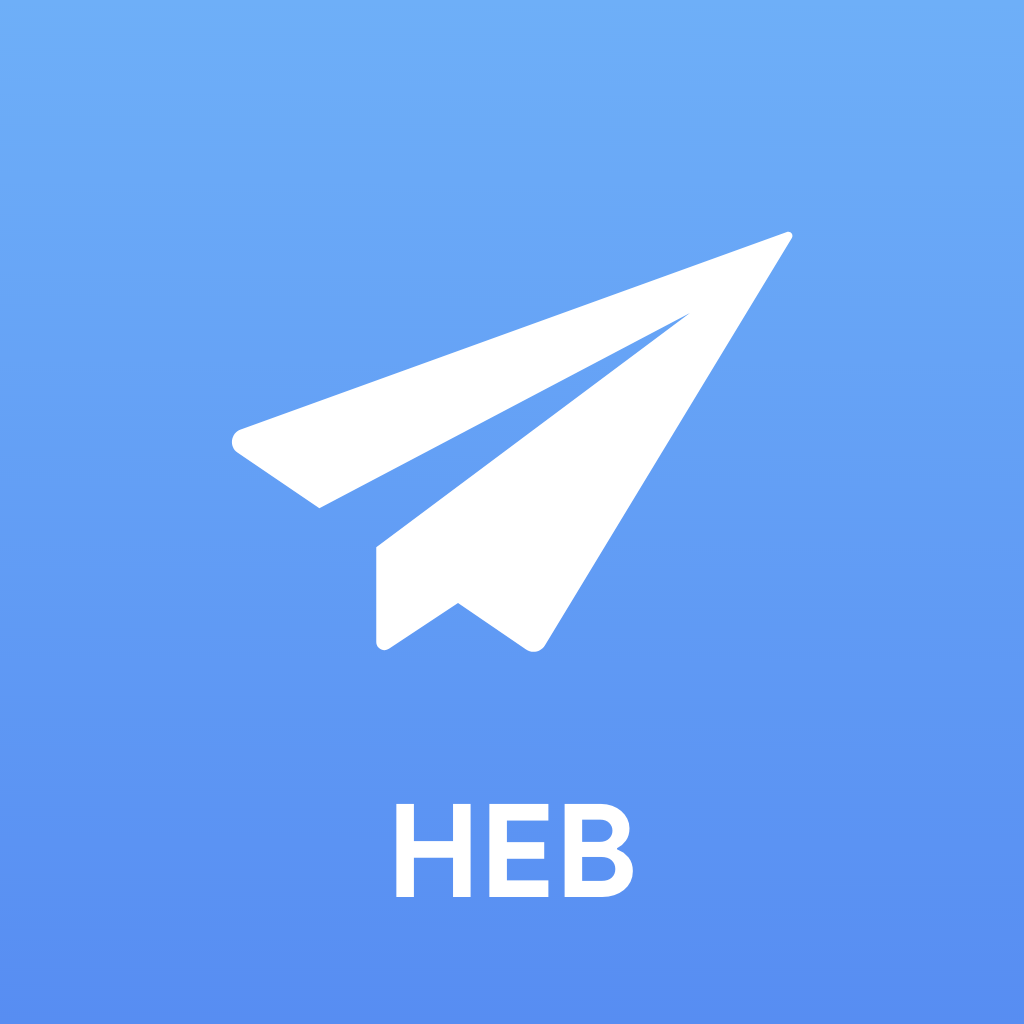
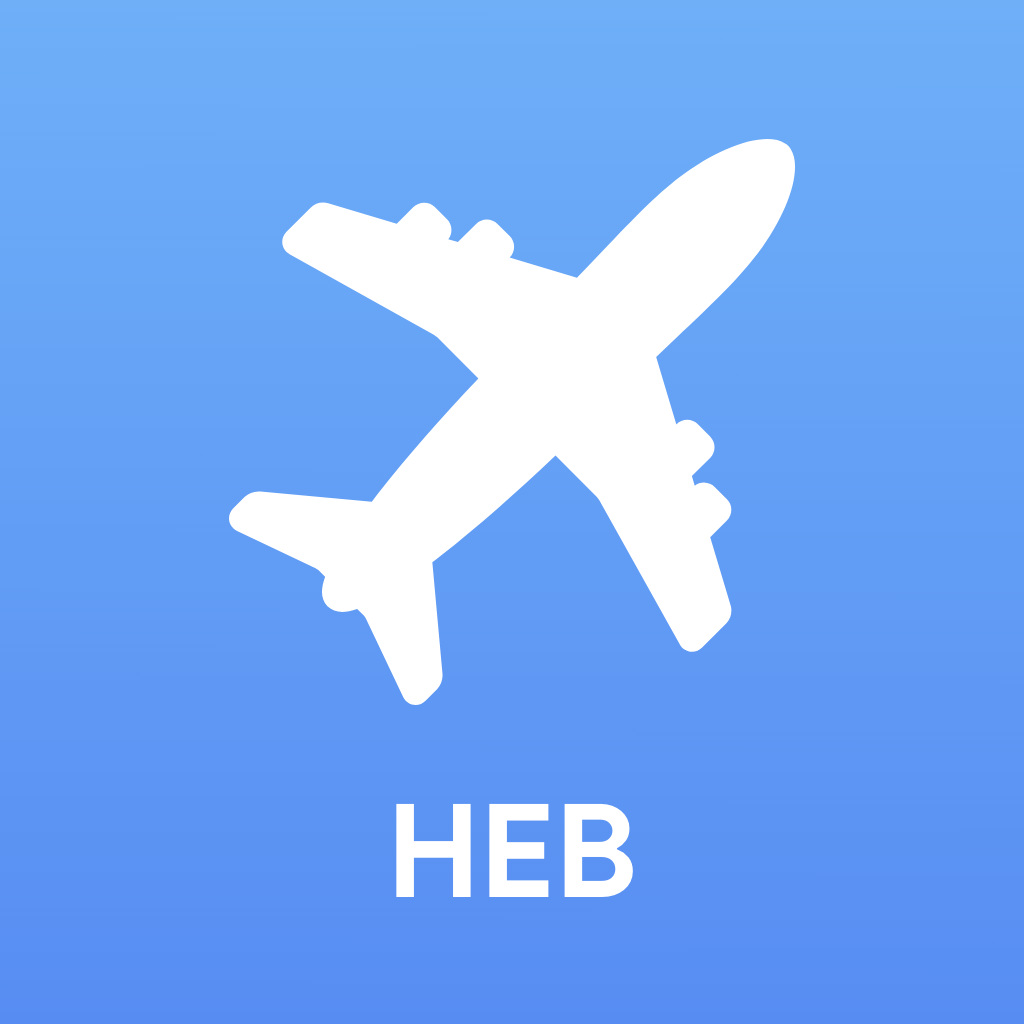
Updates

Changed region(s): [[0.2188, 0.125, 0.7812, 0.6875]]

diff --git a/service-worker.js b/service-worker.js
@@ -37,7 +37,7 @@
 /* eslint-disable indent, no-unused-vars, no-multiple-empty-lines, max-nested-callbacks, space-before-function-paren, quotes, comma-spacing */
 'use strict';
 
-var precacheConfig = [["asset-manifest.json","579e850de1e63cceb7a3ee605be54bfc"],["favicon.ico","fd73a6eb26a08ee46e7fd3cc34e7f6bf"],["guides/1/0.png","639252f17a2ca5c0ade1f13b7278b1be"],["guides/1/1.png","db9a02b7b1e5dfc66c22195151ace0e8"],["guides/1/2.png","310691de2ee835bd74445cc0475a91ad"],["guides/10/0.png","6ac0cb50df014e01d73c4bbacf0b17ad"],["guides/10/1.png","8040d13a3c7bd964b04e853f79a73572"],["guides/10/2.png","79814e1cfd43e74f7aa3dba6a14a3dfc"],["guides/11/0.png","6ac0cb50df014e01d73c4bbacf0b17ad"],["guides/11/1.png","0c0eccca4b5c88d749d21bf042a7f794"],["guides/11/2.png","79814e1cfd43e74f7aa3dba6a14a3dfc"],["guides/12/0.png","639252f17a2ca5c0ade1f13b7278b1be"],["guides/12/1.png","1ab777f80ae75605ae4eced8a305e856"],["guides/12/2.png","3a8efa2fcb50c9770f0d56144ae1817f"],["guides/12/3.png","764076e609624c75d781ac5e2290364e"],["guides/12/4.png","877086393939b84eb0c6cafd34d1c222"],["guides/12/5.png","744ec3224b270829336609294f29543b"],["guides/13/0.png","ccd13009d35b6719a670c528d932bd03"],["guides/13/1.png","e68a9bf3e0eeccb5bd448163e354f6c3"],["guides/13/2.png","a85f7074380a8fe7aa75265a50624a54"],["guides/14/0.png","ccd13009d35b6719a670c528d932bd03"],["guides/14/1.png","157b5d5f49e513cfc32e8ae40b9a5dab"],["guides/14/2.png","a61f497655e57a10dfc1c8a906aaf1df"],["guides/14/3.png","8778ded03e7121231fcff44fe6c9107d"],["guides/15/0.png","ccd13009d35b6719a670c528d932bd03"],["guides/15/1.png","ecf26576edefe5f93e102500b67bad7a"],["guides/15/2.png","a0bd0fb530efe9741554081e827deab5"],["guides/2/0.png","639252f17a2ca5c0ade1f13b7278b1be"],["guides/2/1.png","89577602e15876d791b8de4e1b20e2ca"],["guides/2/2.png","eb846ea6617dfa75ccfbe7595a91f147"],["guides/2/3.png","14cc52be3596018a236a2cefb470986e"],["guides/3/0.png","04bf34aadf7c4800735a83ad16aeef4c"],["guides/3/1.png","744ec3224b270829336609294f29543b"],["guides/3/2.png","690a6ce088b785ddd8e0a4709367d64a"],["guides/3/3.png","bf24b376540c290caa1026513638dfd0"],["guides/3/4.png","258f331ab02ecc3b46179b4a4fcd7c6e"],["guides/4/0.png","8da18976430c48a2fd99a50aac5214fa"],["guides/5/0.png","a3147c4a089735802ce4f05aa1f1286e"],["guides/5/1.png","9a52430f22546c2770323fa60e0c944e"],["guides/5/2.png","42e1f0577ac7dee87b72d3ec17e38099"],["guides/5/3.png","8598f9899c0eb845c80f1b7c35145bc2"],["guides/5/4.png","8fb3ad5103902c6265d343d626c34bc9"],["guides/6/0.png","a3147c4a089735802ce4f05aa1f1286e"],["guides/6/1.png","9a52430f22546c2770323fa60e0c944e"],["guides/6/2.png","0f638c3f077ffa38041190230012e3e3"],["guides/6/3.png","9a456cc745d687d08f84d3360333232f"],["guides/6/4.png","9fe056df03697878636d2d66471d38c1"],["guides/6/5.png","fae0b9c9fead49cc09b57d9745024884"],["guides/7/0.png","59059efbff8ccd04f054a79661519948"],["guides/7/1.png","cfb99c78ccd3508c470422d35c44eb10"],["guides/7/2.png","136bd1cf3e224936d6e11d7d3a27b21f"],["guides/8/0.png","cd1c69fcee0c95a2e7334d033010e158"],["guides/8/1.png","900876d7ee45ad77cff2893c086c2758"],["guides/8/2.png","346b7081e959511fe13ce57fd7c6075b"],["guides/9/0.png","8c9848e747eacbe3883ab1a07838dc90"],["guides/9/1.png","9fce10a7076497402a98132d768280ea"],["guides/9/2.png","551969cbf36c4e56fe76994738dff182"],["guides/9/3.png","a44dadc10fc6e3c80c7bd192023ac61c"],["guides/9/4.png","2318802669185854c24110f46ff29e2f"],["icon.png","32f8a058e8822037add84b7267810765"],["icons/back.png","0bc15b8fc4d8688e7d3dc17222e3670f"],["icons/books.png","bca3414c73ffd1a6115f7a2708264e2d"],["icons/camera.png","fb6b94ce1f5a0370cc1bae9568934c92"],["icons/clock.png","3f7c06d6e47b091eddf6f230ae8baf7e"],["icons/dji.png","23acd56c72e26ce225e89d326502a052"],["icons/duo.png","2d2c5fcb1697f64147ee8980d56ec71c"],["icons/facetime.png","0e8055adf95d3a13f0443780eaa42531"],["icons/icloud.png","f2e8c7d934a270c123f5f9efb6c08b9b"],["icons/messages.png","4ccc59cabb884457259b73d346e1452e"],["icons/nextcloud.png","88b03909244a765431dca2bd0d487b28"],["icons/sbb.png","96dab48f44482e42c19dfe5ad60d772f"],["icons/settings.png","44dc0d989b8219f897059266cdf27c26"],["icons/tripadvisor.png","d35f0a422d8f13fcbf7f15d86e734daa"],["index.html","70e8eaa2bef8d0255fa6057080e90e15"],["manifest.json","a4ca799b0b2685cae7209d87b2822991"],["static/css/main.c9366dfc.css","16a2f1f4e308a74ea3bf8cad11d50b21"],["static/js/main.ebac2a38.js","a005c82d41e7fc90c990359734189928"],["static/media/SF-Pro-Display-Bold.644563f4.otf","644563f48ab5fe8e9082b64b2729b068"],["static/media/SF-Pro-Display-Medium.51fd7406.otf","51fd7406327f2b1dbc8e708e6a9da9a5"]];
+var precacheConfig = [["asset-manifest.json","579e850de1e63cceb7a3ee605be54bfc"],["favicon.ico","fd73a6eb26a08ee46e7fd3cc34e7f6bf"],["guides/1/0.png","639252f17a2ca5c0ade1f13b7278b1be"],["guides/1/1.png","db9a02b7b1e5dfc66c22195151ace0e8"],["guides/1/2.png","310691de2ee835bd74445cc0475a91ad"],["guides/10/0.png","6ac0cb50df014e01d73c4bbacf0b17ad"],["guides/10/1.png","8040d13a3c7bd964b04e853f79a73572"],["guides/10/2.png","79814e1cfd43e74f7aa3dba6a14a3dfc"],["guides/11/0.png","6ac0cb50df014e01d73c4bbacf0b17ad"],["guides/11/1.png","0c0eccca4b5c88d749d21bf042a7f794"],["guides/11/2.png","79814e1cfd43e74f7aa3dba6a14a3dfc"],["guides/12/0.png","639252f17a2ca5c0ade1f13b7278b1be"],["guides/12/1.png","1ab777f80ae75605ae4eced8a305e856"],["guides/12/2.png","3a8efa2fcb50c9770f0d56144ae1817f"],["guides/12/3.png","764076e609624c75d781ac5e2290364e"],["guides/12/4.png","877086393939b84eb0c6cafd34d1c222"],["guides/12/5.png","744ec3224b270829336609294f29543b"],["guides/13/0.png","ccd13009d35b6719a670c528d932bd03"],["guides/13/1.png","e68a9bf3e0eeccb5bd448163e354f6c3"],["guides/13/2.png","a85f7074380a8fe7aa75265a50624a54"],["guides/14/0.png","ccd13009d35b6719a670c528d932bd03"],["guides/14/1.png","157b5d5f49e513cfc32e8ae40b9a5dab"],["guides/14/2.png","a61f497655e57a10dfc1c8a906aaf1df"],["guides/14/3.png","8778ded03e7121231fcff44fe6c9107d"],["guides/15/0.png","ccd13009d35b6719a670c528d932bd03"],["guides/15/1.png","ecf26576edefe5f93e102500b67bad7a"],["guides/15/2.png","a0bd0fb530efe9741554081e827deab5"],["guides/2/0.png","639252f17a2ca5c0ade1f13b7278b1be"],["guides/2/1.png","89577602e15876d791b8de4e1b20e2ca"],["guides/2/2.png","eb846ea6617dfa75ccfbe7595a91f147"],["guides/2/3.png","14cc52be3596018a236a2cefb470986e"],["guides/3/0.png","04bf34aadf7c4800735a83ad16aeef4c"],["guides/3/1.png","744ec3224b270829336609294f29543b"],["guides/3/2.png","690a6ce088b785ddd8e0a4709367d64a"],["guides/3/3.png","bf24b376540c290caa1026513638dfd0"],["guides/3/4.png","258f331ab02ecc3b46179b4a4fcd7c6e"],["guides/4/0.png","8da18976430c48a2fd99a50aac5214fa"],["guides/5/0.png","a3147c4a089735802ce4f05aa1f1286e"],["guides/5/1.png","9a52430f22546c2770323fa60e0c944e"],["guides/5/2.png","42e1f0577ac7dee87b72d3ec17e38099"],["guides/5/3.png","8598f9899c0eb845c80f1b7c35145bc2"],["guides/5/4.png","8fb3ad5103902c6265d343d626c34bc9"],["guides/6/0.png","a3147c4a089735802ce4f05aa1f1286e"],["guides/6/1.png","9a52430f22546c2770323fa60e0c944e"],["guides/6/2.png","0f638c3f077ffa38041190230012e3e3"],["guides/6/3.png","9a456cc745d687d08f84d3360333232f"],["guides/6/4.png","9fe056df03697878636d2d66471d38c1"],["guides/6/5.png","fae0b9c9fead49cc09b57d9745024884"],["guides/7/0.png","59059efbff8ccd04f054a79661519948"],["guides/7/1.png","cfb99c78ccd3508c470422d35c44eb10"],["guides/7/2.png","136bd1cf3e224936d6e11d7d3a27b21f"],["guides/8/0.png","cd1c69fcee0c95a2e7334d033010e158"],["guides/8/1.png","900876d7ee45ad77cff2893c086c2758"],["guides/8/2.png","346b7081e959511fe13ce57fd7c6075b"],["guides/9/0.png","8c9848e747eacbe3883ab1a07838dc90"],["guides/9/1.png","9fce10a7076497402a98132d768280ea"],["guides/9/2.png","551969cbf36c4e56fe76994738dff182"],["guides/9/3.png","a44dadc10fc6e3c80c7bd192023ac61c"],["guides/9/4.png","2318802669185854c24110f46ff29e2f"],["icon.png","3470069c1d64ab36b84f9ba26c960340"],["icons/back.png","0bc15b8fc4d8688e7d3dc17222e3670f"],["icons/books.png","bca3414c73ffd1a6115f7a2708264e2d"],["icons/camera.png","fb6b94ce1f5a0370cc1bae9568934c92"],["icons/clock.png","3f7c06d6e47b091eddf6f230ae8baf7e"],["icons/dji.png","23acd56c72e26ce225e89d326502a052"],["icons/duo.png","2d2c5fcb1697f64147ee8980d56ec71c"],["icons/facetime.png","0e8055adf95d3a13f0443780eaa42531"],["icons/icloud.png","f2e8c7d934a270c123f5f9efb6c08b9b"],["icons/messages.png","4ccc59cabb884457259b73d346e1452e"],["icons/nextcloud.png","88b03909244a765431dca2bd0d487b28"],["icons/sbb.png","96dab48f44482e42c19dfe5ad60d772f"],["icons/settings.png","44dc0d989b8219f897059266cdf27c26"],["icons/tripadvisor.png","d35f0a422d8f13fcbf7f15d86e734daa"],["index.html","70e8eaa2bef8d0255fa6057080e90e15"],["manifest.json","a4ca799b0b2685cae7209d87b2822991"],["static/css/main.c9366dfc.css","16a2f1f4e308a74ea3bf8cad11d50b21"],["static/js/main.ebac2a38.js","a005c82d41e7fc90c990359734189928"],["static/media/SF-Pro-Display-Bold.644563f4.otf","644563f48ab5fe8e9082b64b2729b068"],["static/media/SF-Pro-Display-Medium.51fd7406.otf","51fd7406327f2b1dbc8e708e6a9da9a5"]];
 var cacheName = 'sw-precache-v2-sw-precache-' + (self.registration ? self.registration.scope : '');
 
 
